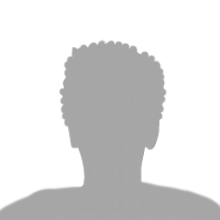
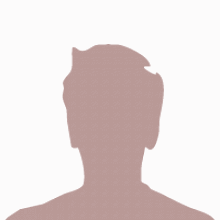
Small fixes

diff --git a/protected/views/site/index.php b/protected/views/site/index.php
@@ -32,12 +32,12 @@
 
 <div class="row panel radius" style="margin-top: 20px;">
 	<div class="large-12 small-12 columns">
-     <?php echo CHtml::beginForm('','post',array('class'=>"custom")); ?>
+     <?php echo CHtml::beginForm('','post',array('class'=>"custom","style"=>"margin-bottom:0;")); ?>
 
       
-		 <div class="row">
+		<div class="row">
 		  <div class="large-5 small-12 columns">
-    		<h4 class="meta-title"><?php echo CHtml::encode(Yii::t('app','Narow your search')); ?>: </h4>
+    		<h4 class="meta-title"><?php echo CHtml::encode(Yii::t('app','Narow your search to')); ?> </h4>
       </div>
 		  <div class="large-7 small-12 columns">
 
@@ -49,10 +49,9 @@
         <label for="project_1" onclick=""><?php echo Yii::t('app','People') ?></label>
         <span></span>
       </div>
-
-				
       </div>
 		</div>
+    
     <div class="advance">
 		 <div class="row">
       <hr>
@@ -91,15 +90,19 @@
       
 		</div>
     <div class="row">
+      <div class="small-12 columns">
             <?php echo CHtml::submitButton(Yii::t("app","Search"),
                   array('class'=>"button small radius")
               ); ?>
+      </div>
     </div>
     </div>
       
     <?php echo CHtml::endForm(); ?>
     
-    <div><a href="#" onclick="$('.advance').slideToggle('slow'); return false;">Advanced search +</a></div>
+    <div style="position: absolute; bottom:-30px; border:1px solid #BBB; padding:4px; background-color:#FFF; ">
+      <a href="#" onclick="$('.advance').slideToggle('slow'); return false;">Advanced search +</a>
+    </div>
 	
 	</div>
 </div>

diff --git a/protected/views/idea/view.php b/protected/views/idea/view.php
@@ -140,7 +140,7 @@ $idea = $data['idea'];
                       foreach ($member['collabpref'] as $collab) {
                         //if (!$firsttime) echo ", ";
                         //$firsttime = false;
-                        echo "<h7 class='meta-title'>".$collab['name']."<h7> <br/>";
+                        echo "<h7 class='meta-title'>".$collab['name']."</h7> <br/>";
                       }
                     ?>
                 </small>

diff --git a/protected/helpers/global.php b/protected/helpers/global.php
@@ -53,7 +53,7 @@ function avatar_image($filename, $userID = 0, $thumb=30){
             return Yii::app()->getBaseUrl(true)."/".$pathFileName;
   }
   
-  $userID = ($userID % 3); // 3 different default avatars
+  $userID = ($userID % 4); // 3 different default avatars
   return Yii::app()->getBaseUrl(true)."/images/dummy-avatar-".$userID.".png";
 //  return Yii::app()->request->baseUrl."/images/dummy-avatar-".$userID.".png";
 }
